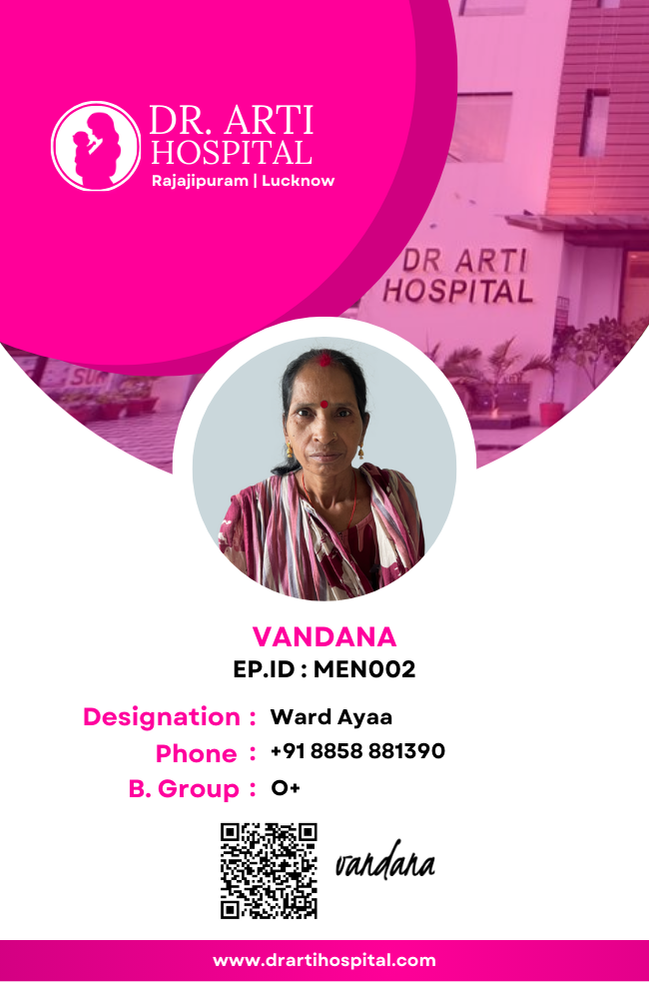
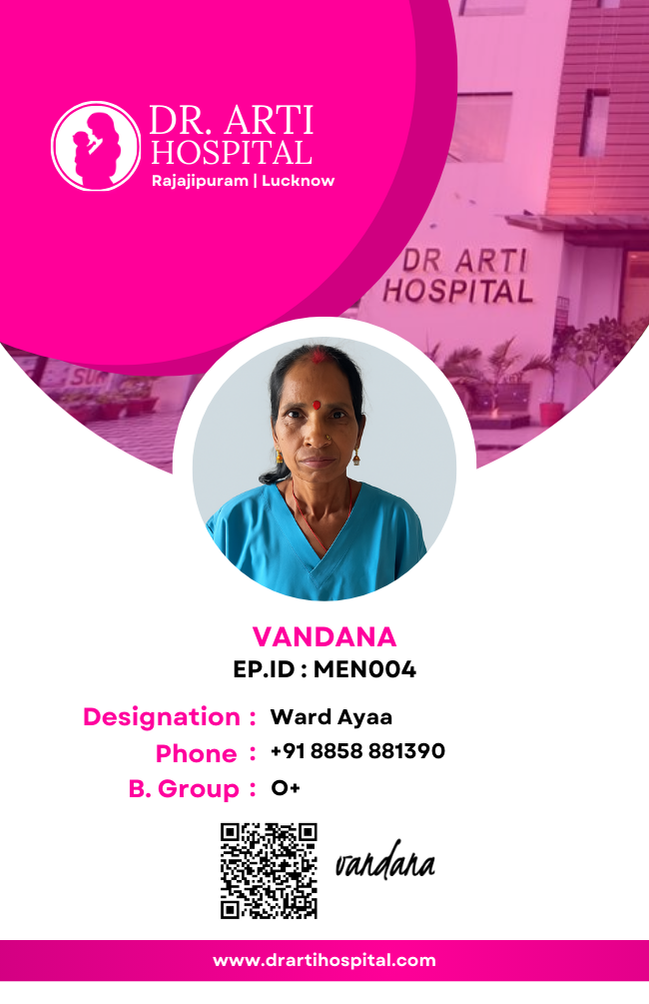
new updates

Changed region(s): [[0.3082, 0.3396, 0.678, 0.6175], [0.5855, 0.6484, 0.6471, 0.6793]]

diff --git a/src/data/staff.ts b/src/data/staff.ts
@@ -218,8 +218,8 @@ export const staffMembers: StaffMember[] = [
     name: 'Roshni',
     designation: 'Housekeeping Aaya',
     department: 'menial',
-    photo: '/.png',
-    idcard: '/.jpg',
+    photo: '/roshni.png',
+    idcard: '/roshniid.png',
     phone: '+91 95552 14537',
     joiningDate: '10 January 2015',
     bloodGroup: 'O+',
@@ -237,7 +237,7 @@ export const staffMembers: StaffMember[] = [
     name: 'Vandana',
     designation: 'Ward Aaya',
     department: 'menial',
-    photo: '/vandan.png',
+    photo: '/vandana.png',
     idcard: '/vandanaid.png',
     phone: '+91 8858 881390',
     joiningDate: '10-02-2025',
